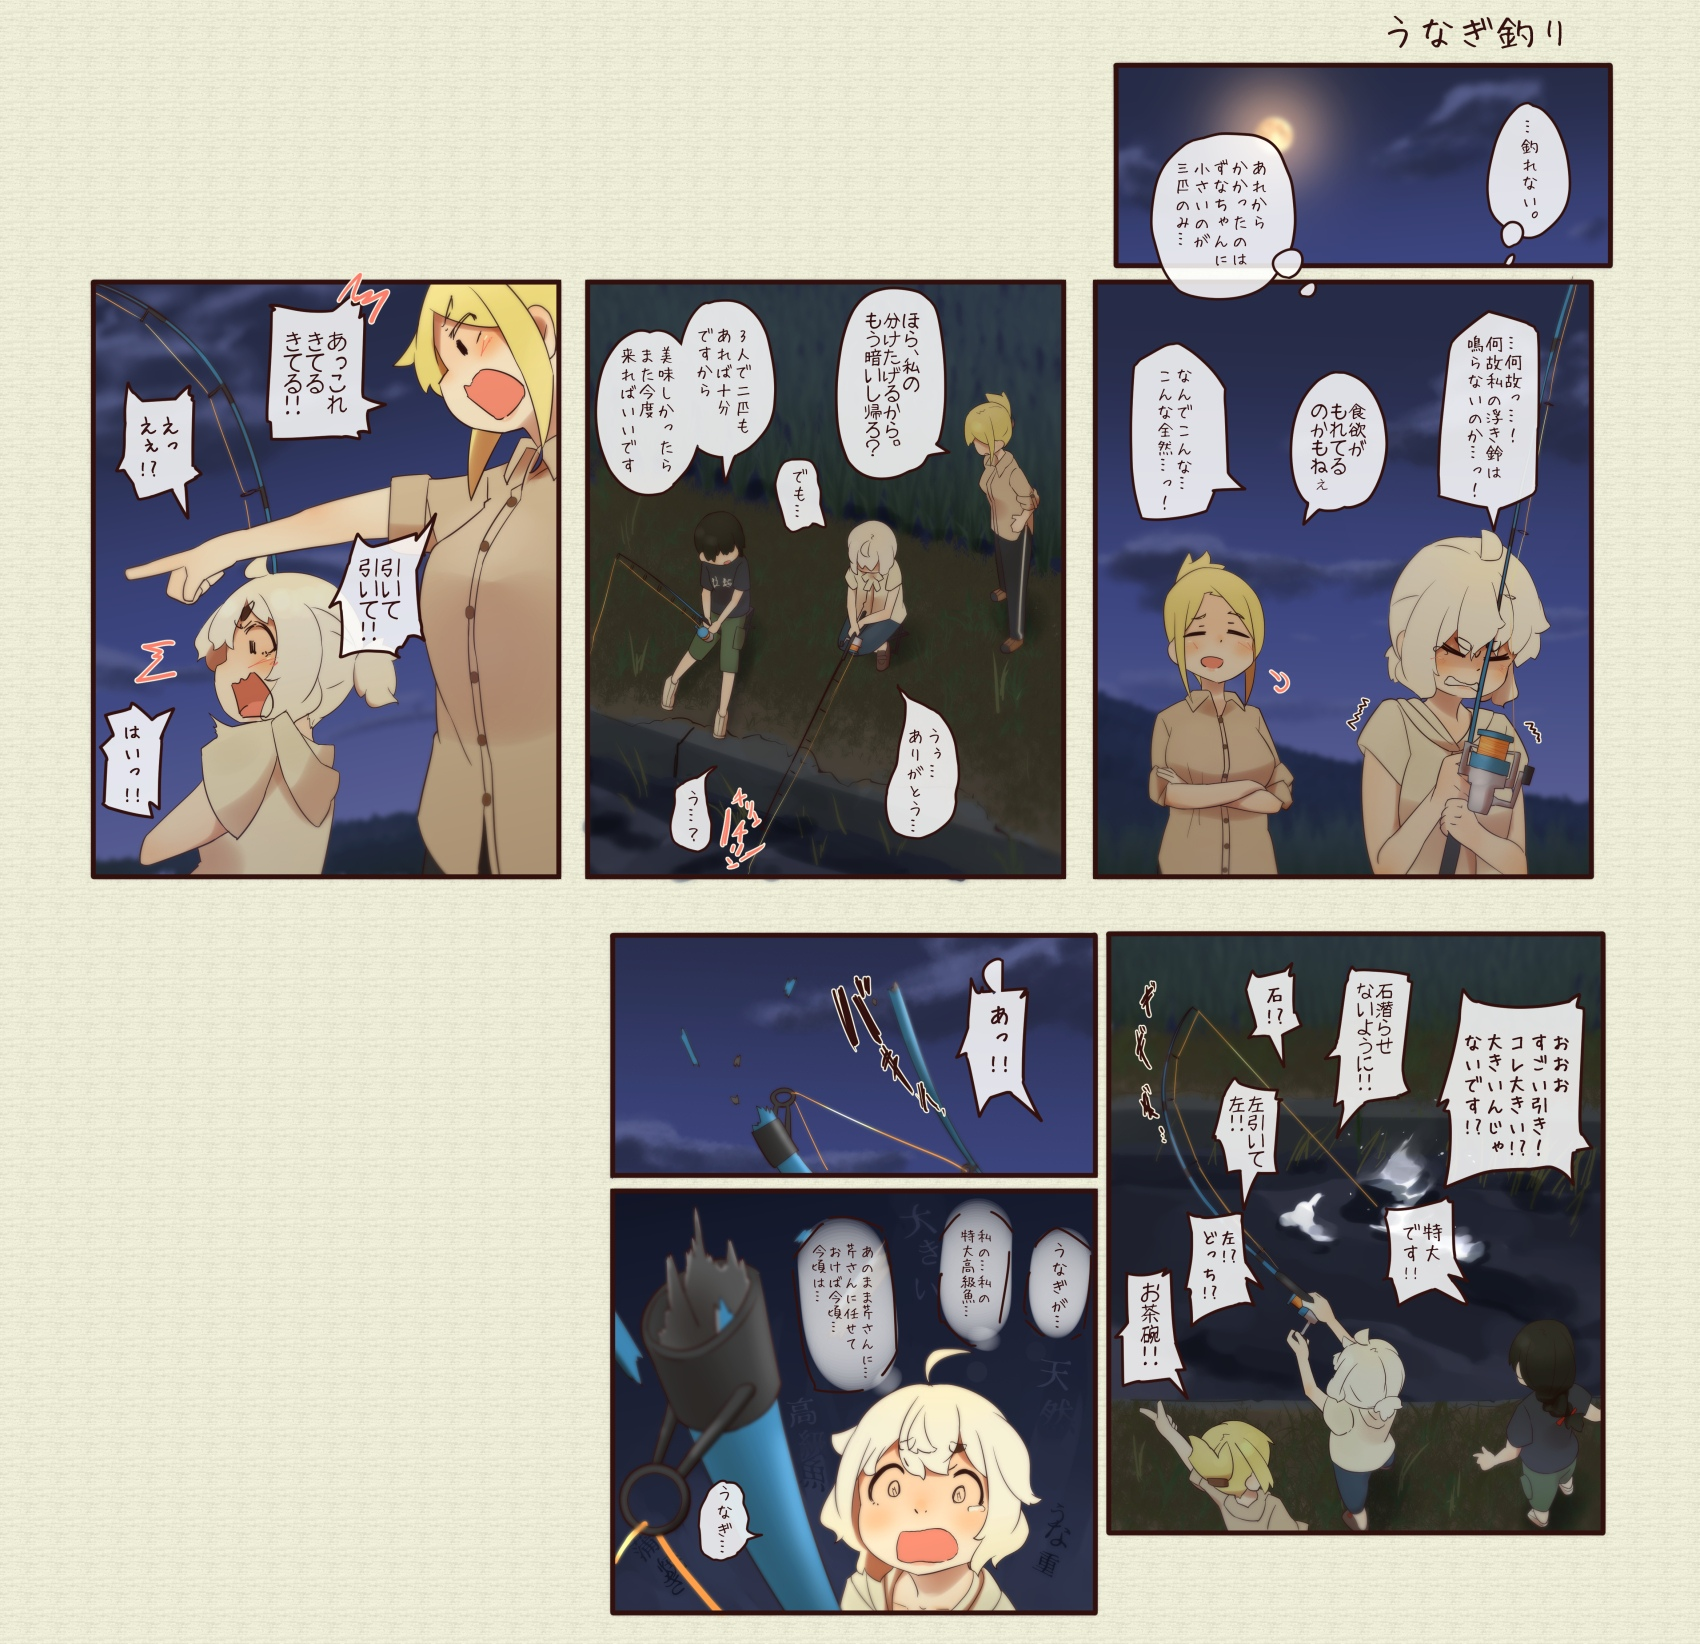
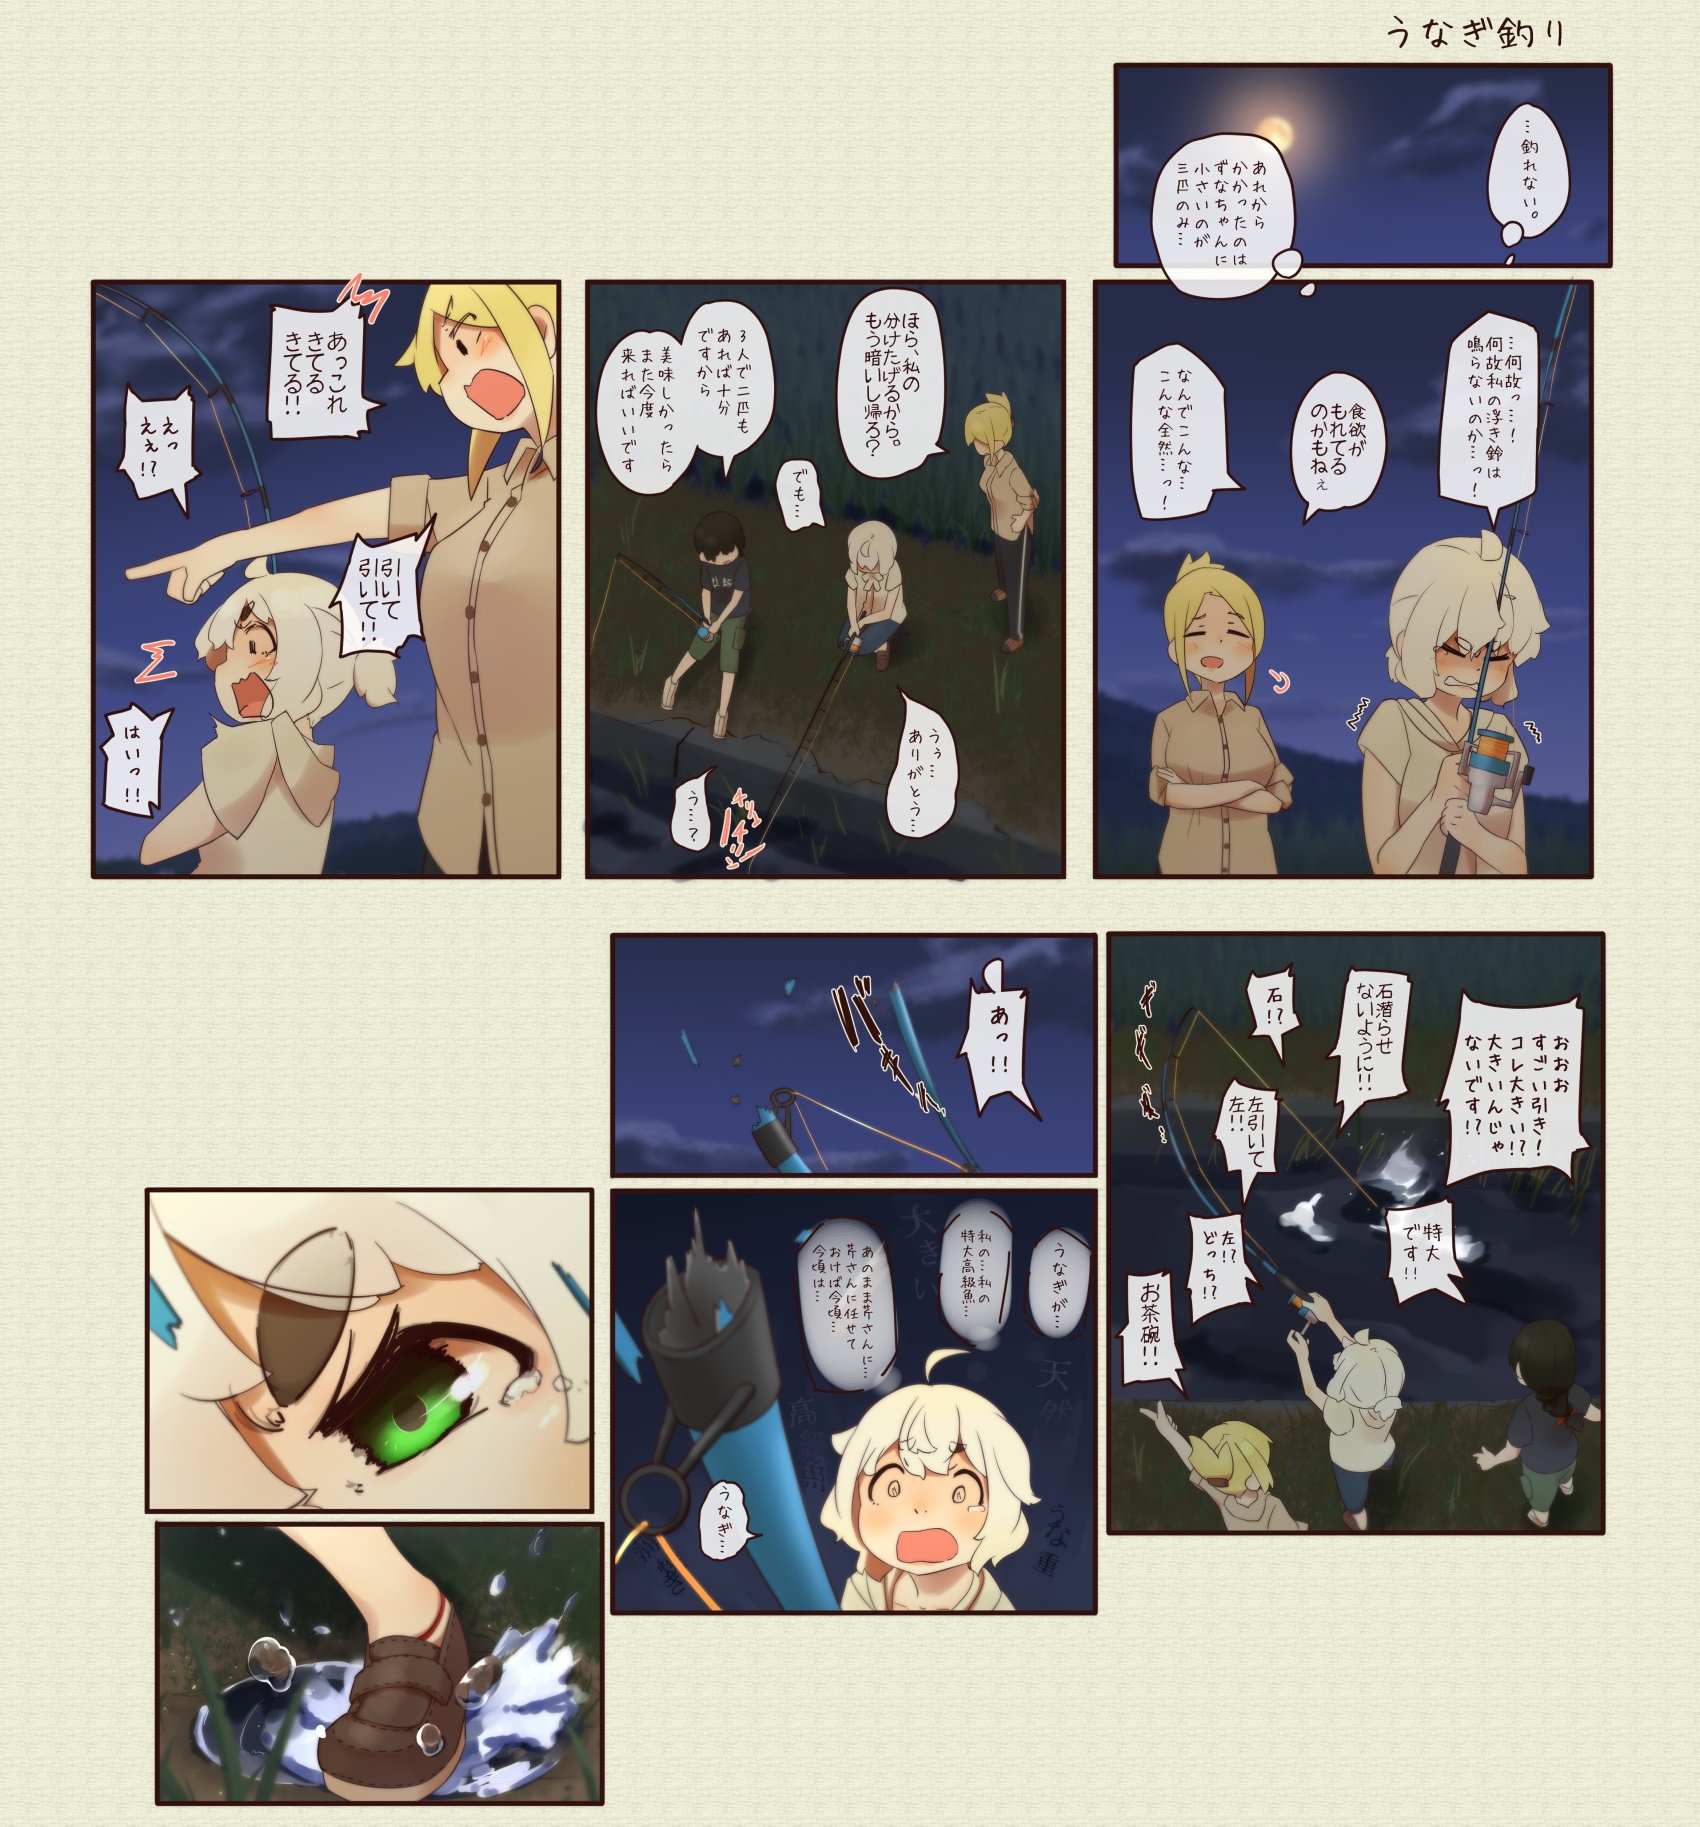
update: auto updated 4komaData by workflow

diff --git a/4komaData.js b/4komaData.js
@@ -243,5 +243,5 @@ pageData = [
 ,{"Title": "ソムリエ", "ImagesUrl": ["https://mo4koma.iranika.info/4koma/ja/242-1.jpg", "https://mo4koma.iranika.info/4koma/ja/242-2.jpg", "https://mo4koma.iranika.info/4koma/ja/242-3.jpg", "https://mo4koma.iranika.info/4koma/ja/sp.jpg"]}
 ,{"Title": "趣味", "ImagesUrl": ["https://mo4koma.iranika.info/4koma/ja/243-1.jpg", "https://mo4koma.iranika.info/4koma/ja/243-2.jpg", "https://mo4koma.iranika.info/4koma/ja/243-3.jpg", "https://mo4koma.iranika.info/4koma/ja/243-4.jpg", "https://mo4koma.iranika.info/4koma/ja/sp.jpg"]}
 ,{"Title": "でじゃぶ", "ImagesUrl": ["https://mo4koma.iranika.info/4koma/ja/244-1.jpg", "https://mo4koma.iranika.info/4koma/ja/sp.jpg"]}
-,{"Title": "うなぎ釣り", "ImagesUrl": ["https://mo4koma.iranika.info/4koma/ja/245-1.jpg", "https://mo4koma.iranika.info/4koma/ja/sp.jpg"]}
+,{"Title": "うなぎ釣り", "ImagesUrl": ["https://mo4koma.iranika.info/4koma/ja/245-1.jpg", "https://mo4koma.iranika.info/4koma/ja/245-2.jpg", "https://mo4koma.iranika.info/4koma/ja/sp.jpg"]}
 ]
